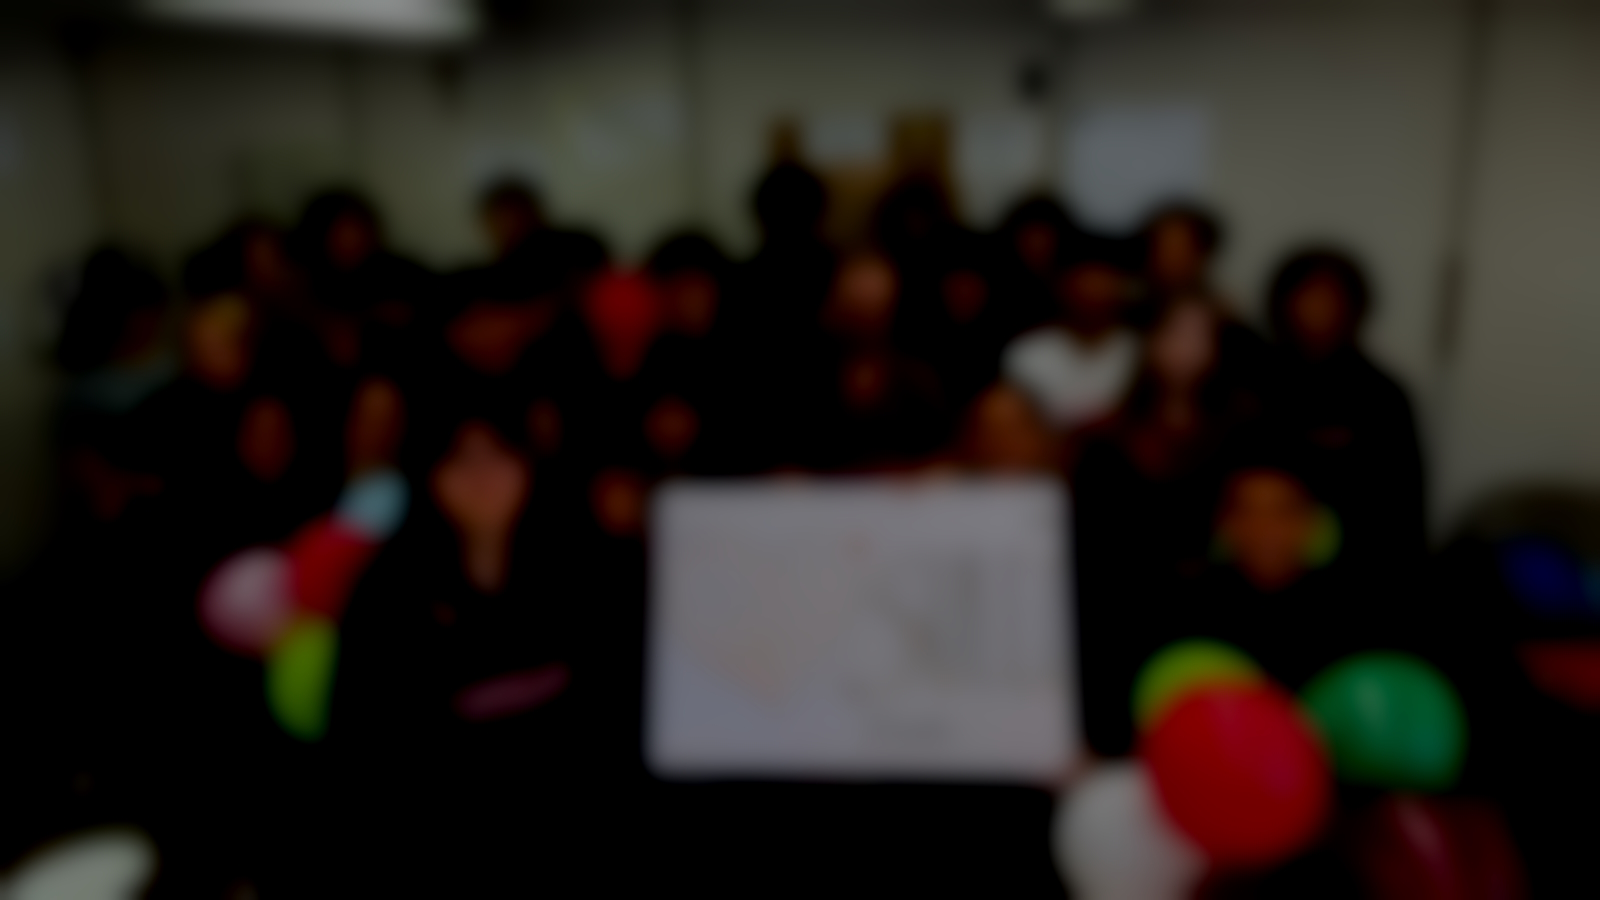
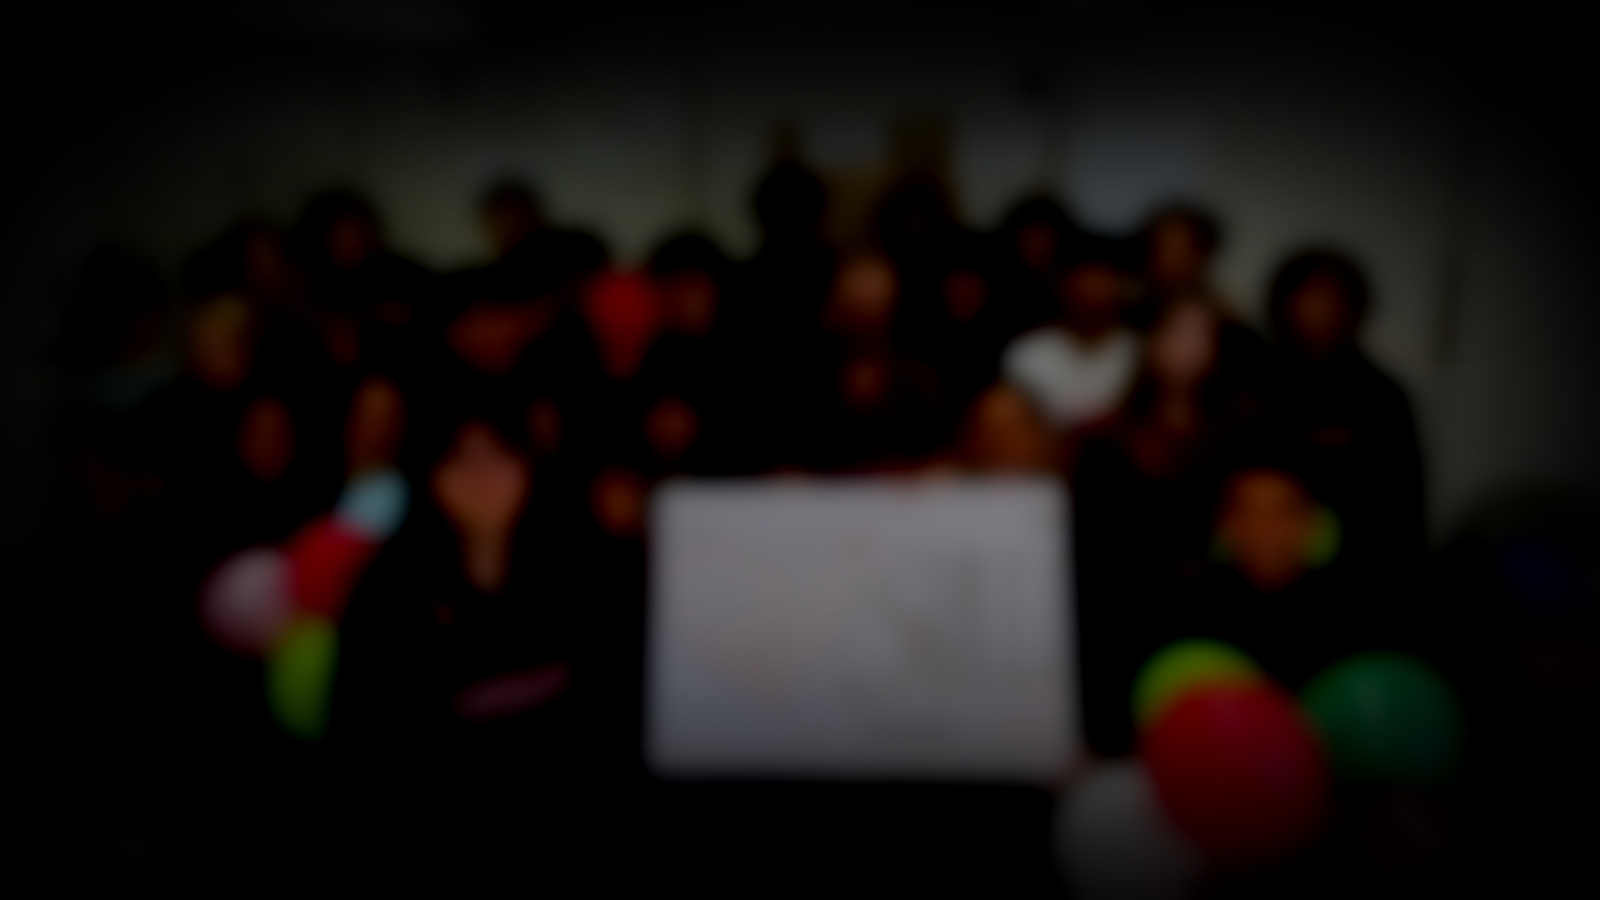
tweaked the background so it doesn't look stupid on iOS 26, also cleaned the code a little bit

diff --git a/assets/css/main.css b/assets/css/main.css
@@ -80,6 +80,7 @@ input, select, textarea {
 
 	html {
 		box-sizing: border-box;
+		overflow: hidden;  /* no scrolling bg >:( */
 	}
 
 	*, *:before, *:after {
@@ -87,8 +88,9 @@ input, select, textarea {
 	}
 
 	body {
-		background: #fff;
-		overflow: hidden;
+        background: #000000 url("images/bg.jpg") no-repeat center center fixed;
+		width:100%;
+        height:110vh;
 	}
 
 		body.is-preload *, body.is-preload *:before, body.is-preload *:after {
@@ -159,23 +161,22 @@ input, select, textarea {
 			-webkit-font-smoothing: antialiased;
 		}
 
-	#bg {
-	/* Set your background with this */
 
-	  content:"";
-      position:fixed;
-      top:0;
-      height:100vh;
-      left:0;
-      right:0;
-      z-index:-1;
-      background: url("images/bg.jpg") center center;
-      -webkit-background-size: cover;
-      -moz-background-size: cover;
-      -o-background-size: cover;
-      background-size: cover;
-	  background-attachment: scroll;
-	}
+	/* apple's webkit quirks are actually going to drive me insane */	
+	/* #bg {
+
+		background: #000000 url("images/bg.jpg") center center;
+		width: 100%;
+		height: 100%;
+		background-repeat: no-repeat;
+		-webkit-background-size: cover;
+        -moz-background-size: cover;
+        -o-background-size: cover;
+        background-size: cover;
+		opacity: 1;
+		position: fixed;
+		margin: auto;
+	} */
 
 /* Main */
 

diff --git a/secret.html b/secret.html
@@ -4,9 +4,11 @@
 	html5up.net | @ajlkn
 	Free for personal and commercial use under the CCA 3.0 license (html5up.net/license)
 -->
+
+<!-- This page should be used as a template for other stuff -->
 <html>
 	<head>
-		<title>Yanterko - Extras</title>
+		<title></title>
 		<link rel="icon" type="image/x-icon" href="bcuz.ico">
 		<meta charset="utf-8" />
 		<meta name="viewport" content="width=device-width, initial-scale=1, user-scalable=no" />
@@ -19,17 +21,12 @@
 			<div id="overlay"></div>
 			<div id="main">
 
-				<!-- Header -->
+				<!-- Put your stuff here -->
 					<header id="header">
-						<h2 style="margin-bottom: 10px;">EXTRAS</h2>
-								<ul>
-								<li><a href="https://gist.github.com/Yanterko/9bed0cb3e0c722e41bf4a85354c29d87">osu!skins</a></li>
-								<li><a href="https://yanterko.webflow.io">Webflow website (circa 2021)</a></li>
-								<li><a href="https://yanterko.weebly.com">Weebly website (circa 2019)</a></li>
-								<li><a href="https://web.archive.org/web/20150812164652/http://yanterko.weebly.com/">Snapshot of Weebly site (circa 2015)</a></li>
-								</ul>
-								<br><ul><a href="/">Back to home</a></ul>
-						</nav>
+						<div>
+					    <img style="width: 45%;" src="./assets/img/mafuyu_wall.png">
+						</div>
+                        <a href="/">Back to home</a>
 					</header>
 
 				<!-- Footer -->

diff --git a/empty.html b/empty.html
@@ -4,9 +4,11 @@
 	html5up.net | @ajlkn
 	Free for personal and commercial use under the CCA 3.0 license (html5up.net/license)
 -->
+
+<!-- This page should be used as a template for other stuff -->
 <html>
 	<head>
-		<title>Yanterko - Extras</title>
+		<title></title>
 		<link rel="icon" type="image/x-icon" href="bcuz.ico">
 		<meta charset="utf-8" />
 		<meta name="viewport" content="width=device-width, initial-scale=1, user-scalable=no" />
@@ -17,20 +19,18 @@
 		<div id="wrapper">
 			<div id="bg"></div>
 			<div id="overlay"></div>
-			<div id="main" style="overflow:auto;">
+			<div id="main">
 
-				<!-- Header -->
+				<!-- Put your stuff here -->
 					<header id="header">
-						<h2 style="margin-bottom: 10px;margin-top: 10%">SETUP</h2>
-							</ul>
-								<br><ul><a href="/">Back to home</a></ul><br><br><br>
-												<!-- Footer -->
+					
+					</header>
+
+				<!-- Footer -->
 					<footer id="footer">
-						<span class="copyright">Last updated 9/8/2025</span>
+						<span class="copyright">Last updated 10/01/2025</span>
 						<br><span class="copyright">&copy Yanterko 2013-2025  &nbsp;&bull;&nbsp;  <a href="https://github.com/Yanterko/yantersite">Credits/Source</a></span>
 					</footer>
-						</nav>
-					</header>
 
 			</div>
 		</div>

diff --git a/index.html b/index.html
@@ -9,7 +9,7 @@
 		<title>Yanterko</title>
 		<link rel="icon" type="image/x-icon" href="bcuz.ico">
 		<meta charset="utf-8" />
-		<meta name="viewport" content="width=device-width, initial-scale=1, user-scalable=no" />
+		<meta name="viewport" content="width=device-width, initial-scale=1, user-scalable=no viewport-fit=cover"/>
 		<link rel="stylesheet" href="assets/css/main.css" />
 		<link href="assets/css/fa6/fontawesome.css" rel="stylesheet"/>
 		<link href="assets/css/fa6/brands.css" rel="stylesheet"/>
@@ -45,7 +45,7 @@
 
 				<!-- Footer -->
 					<footer id="footer">
-						<span class="copyright">Last updated 9/29/2025</span>
+						<span class="copyright">Last updated 10/01/2025</span>
 						<br><span class="copyright">&copy Yanterko 2013-2025  &nbsp;&bull;&nbsp;  <a href="https://github.com/Yanterko/yantersite">Credits/Source</a></span>
 					</footer>
 

diff --git a/error.html b/error.html
@@ -9,7 +9,7 @@ h1 {text-align: center; font-family: 'Roboto', arial; font-size: 150%}
 p {text-align: center; font-family: 'Roboto', arial;}
 </style>
 <body>
-    <p><img src="orion.png" alt="MiWay 1009, an Orion VII EPA10 BRT, gathering passengers on route 110N University Express." 
+    <p><img src="./assets/img/orion.png" alt="MiWay 1009, an Orion VII EPA10 BRT, gathering passengers on route 110N University Express." 
         style="width:300px"></p>
 <h1 style="margin-bottom:-0.75%;margin-top:-0.85%">Sorry... something went wrong!</h1>
 </body>

diff --git a/e404.html b/e404.html
@@ -9,7 +9,7 @@ h1 {text-align: center; font-family: 'Roboto', sans-serif; font-size: 150%}
 p {text-align: center; font-family: 'Roboto', sans-serif;}
 </style>
 <body>
-    <p><img src="jegpain.png" alt="Jeg contemplating life" 
+    <p><img src="./assets/img/jegpain.png" alt="Jeg contemplating life" 
         style="width:300px;height:128px;"></p>
 <h1 style="margin-bottom:-0.75%;margin-top:-0.85%"><b>We couldn't find that page :(</b></h1>
 <p><a href="/">Go home?</a></p>
